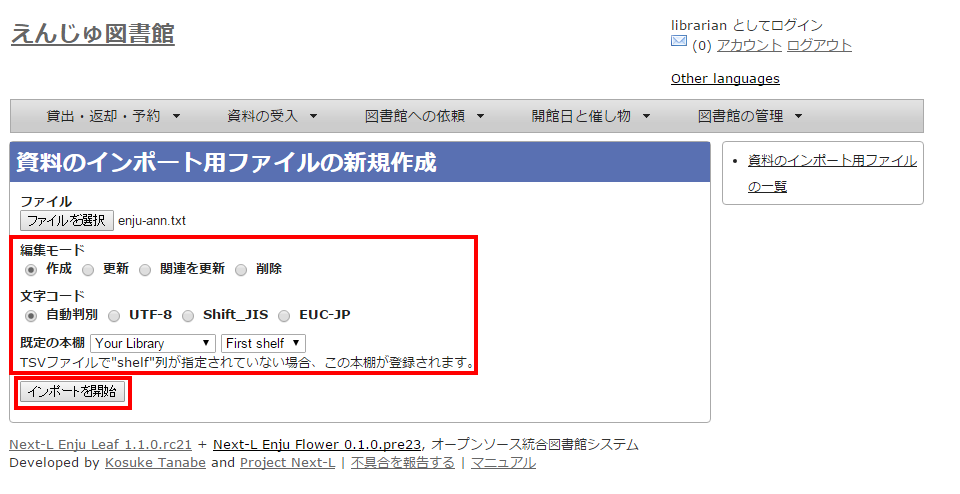
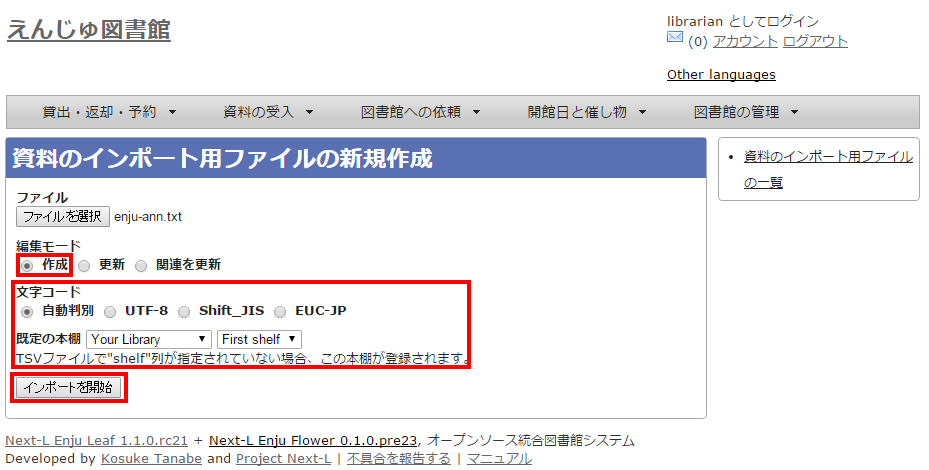
TSVインポートの書誌の作成のところを削除ボタンがないものに修正 文言もそれにあわせて修正

Changed region(s): [[0.0, 0.1489, 0.9989, 1.0], [0.6868, 0.0298, 0.9053, 0.1191], [0.0, 0.0298, 0.1873, 0.1191]]

diff --git a/enju_operation_4.md b/enju_operation_4.md
@@ -136,30 +136,13 @@ NDLサーチを検索して1件ずつ登録する
 
 ![ファイルを選択](assets/images/image_operation_094.png)
 
-#### 3. [編集モード]、[文字コード]、[既定の本棚]を選択して［インポートを開始］ボタンをクリックします。  
+#### 3. [編集モード]が[作成]となっていることを確認し、[文字コード]、[既定の本棚]を選択して［インポートを開始］ボタンをクリックします。  
 
 ![インポートされる資料のファイルを作成](assets/images/image_operation_095.png)
    
 <div class="alert alert-info memo" markdown="1">
 【Memo】
-[編集]モードで［更新］を選択すると、
-TSVファイルで資料の情報をまとめて更新できます。
-TSVファイルを利用する場合は、
-更新したい資料のManifestaion ID(manifestation_id)か、
-ローカル識別子（manifestation_identifier）
-と更新したいフィールドの内容が記述されたファイルを準備しておきます。
-また、［削除］を選択すると、TSVファイルで資料の情報をまとめて削除できます。
-TSVファイルを利用して資料の情報を削除する場合は、
-削除したい資料のManifestaion ID(manifestation_id)か、
-ローカル識別子（manifestation_identifier）
-のみ記述されたファイルを準備しておきます。
-[関連を更新]とすると所蔵情報を付け替えることができます。
-所蔵情報ID（item_identifier） と、 
-つけ替えたい書誌のManifestation ID（manifestation_id） もしくは、 
-ローカル識別子（manifestation_identifier） 
-のみが記述されたファイルを作成します。詳細については
-[「4-3-6 TSVファイルを読み込んで所蔵情報を他の書誌につけかえる」](#section4-3-6)
-を参照してください。
+他の「編集モード」の使い方は別の章で説明します。
 </div>
 
 <div class="alert alert-info memo">【Memo】[文字コード]は基本的には自動判別でよいですが、うまくいかない場合は、文字コードを指定するようにしてください。
